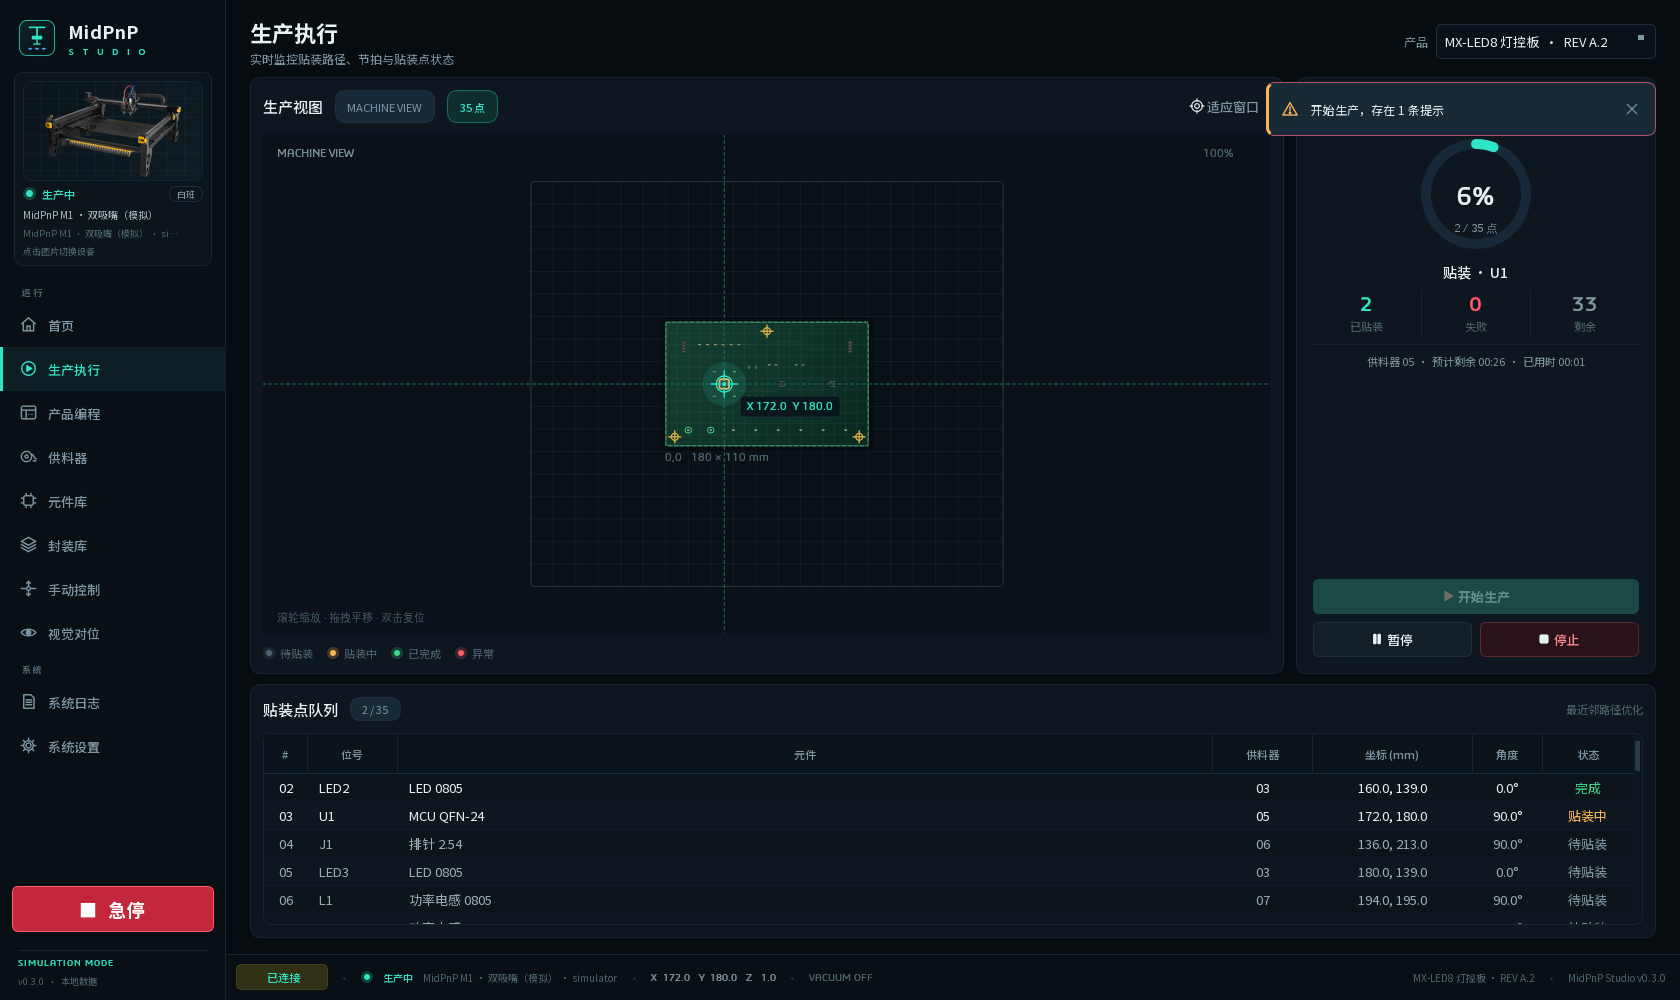
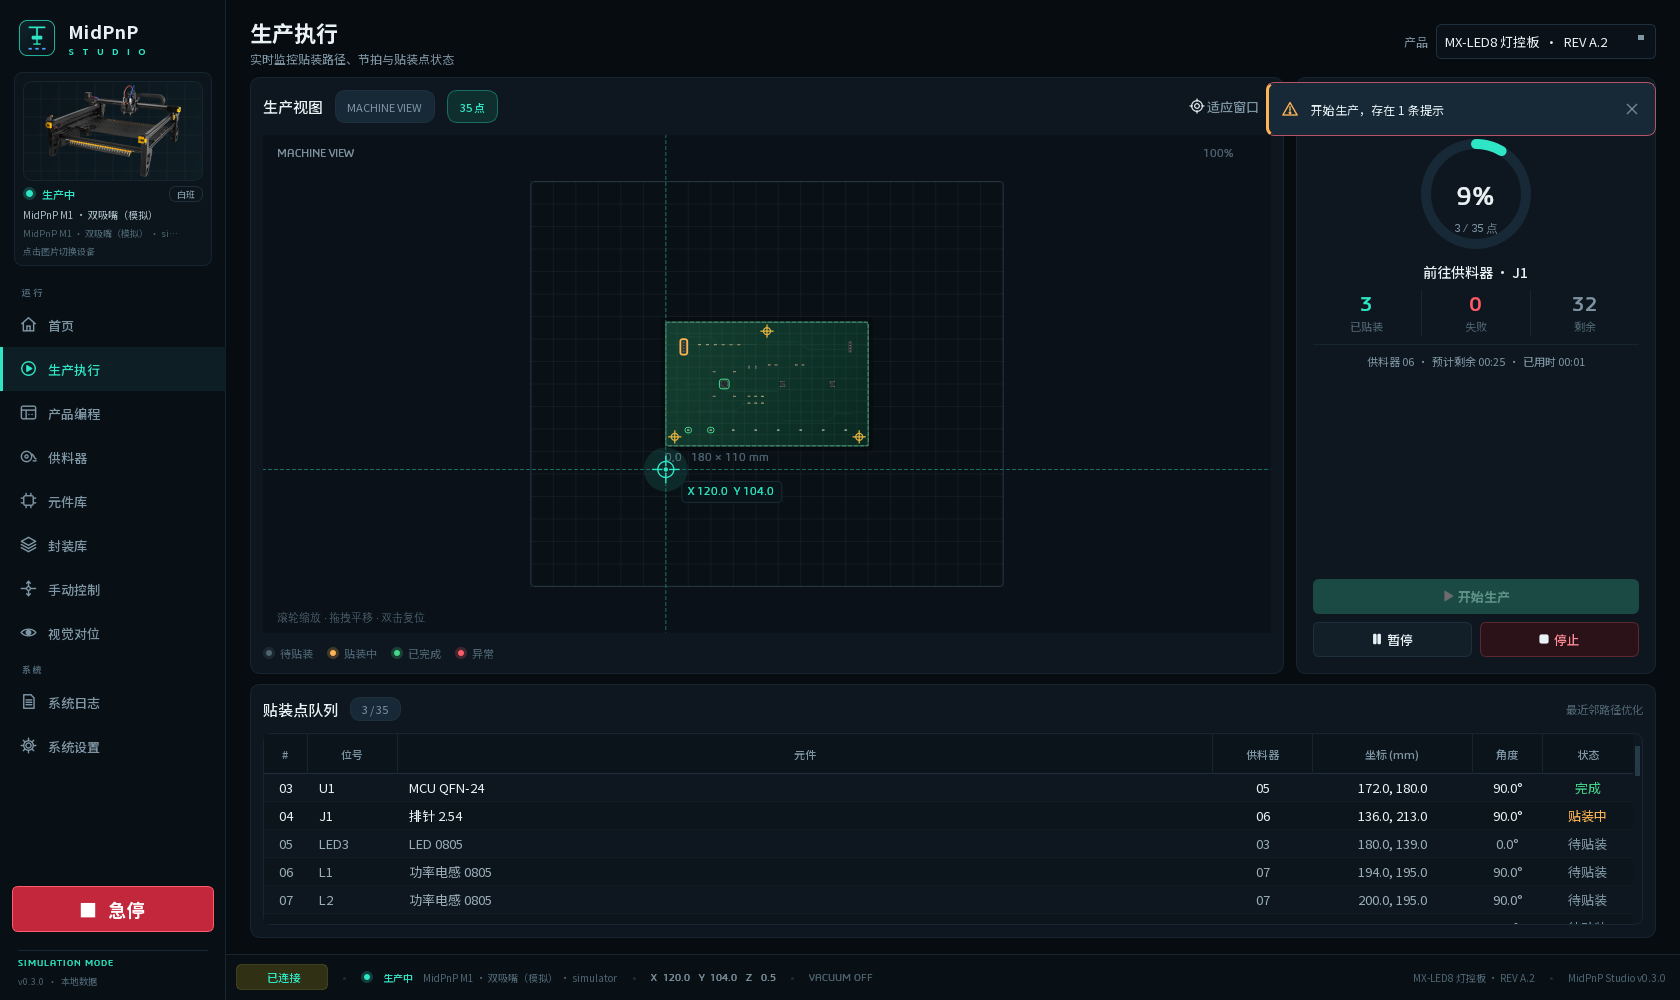
feat(ui): use the supplied bed reference as 1:1 default artwork
- add assets/beds/m1-bed.png: the supplied 1302x535 plate reference converted
  to transparent dark-theme line art (frame, hole grid, calibration PCB,
  camera, ruler all in their original positions/relations)
- set sim-desktop profile bed_image to beds/m1-bed.png so the home overview
  draws the exact reference at bed size, instead of a redrawn approximation
- bed images now fill the bed rectangle without cropping; product outline is
  shown only while producing, keeping the idle bed clean
- custom bed replacement/reset still available in machine profile settings
- docs, 115 tests, screenshots updated

diff --git a/midpnp/ui/pages/home.py b/midpnp/ui/pages/home.py
@@ -459,22 +459,13 @@ class MachineScene(QWidget):
         if image is not None:
             scaled = image.scaled(
                 bed.size().toSize(),
-                Qt.AspectRatioMode.KeepAspectRatioByExpanding,
+                Qt.AspectRatioMode.IgnoreAspectRatio,
                 Qt.TransformationMode.SmoothTransformation,
             )
-            src = QRectF(
-                (scaled.width() - bed.width()) / 2,
-                (scaled.height() - bed.height()) / 2,
-                bed.width(),
-                bed.height(),
-            )
-            painter.drawImage(bed, scaled, src)
+            painter.drawImage(bed, scaled)
         else:
             self._draw_default_bed(painter, bed)
         painter.restore()
-        painter.setPen(QPen(QColor("#2b4652"), 1.2))
-        painter.setBrush(Qt.BrushStyle.NoBrush)
-        painter.drawRoundedRect(bed, 8, 8)
 
         def to_bed(mx: float, my: float) -> QPointF:
             return QPointF(
@@ -483,7 +474,7 @@ class MachineScene(QWidget):
             )
 
         product = self._product
-        if product is not None:
+        if product is not None and self._state in (MachineState.RUNNING, MachineState.PAUSED):
             top_left = to_bed(product.board_origin_x_mm, product.board_origin_y_mm + product.board_height_mm)
             bottom_right = to_bed(
                 product.board_origin_x_mm + product.board_width_mm,

diff --git a/README.md b/README.md
@@ -12,7 +12,7 @@ MidPnP Studio 是一个从零搭建、可以直接运行的贴片机上位机原
 | --- | --- |
 | 设备连接 | 内置模拟器、TCP JSONL、串口 JSONL、G-code 命令表；自动重连、状态机、软限位 |
 | 机型配置 | JSON 配置驱动多机型；首次启动看图选设备，之后在设置里随时更换 |
-| 首页 | 16:9 单相机画面（顶/底切换、可拖动分隔条）、竖置步距/速度点动（默认相机 3/5）、吸嘴/相机选择与跟随真空、Z 单独归位、可拖动 3:7 整机线稿（可换底板图、飞达蛇形序号 1–50、料带规格、点击移动） |
+| 首页 | 16:9 单相机画面（顶/底切换、可拖动分隔条）、竖置步距/速度点动（默认相机 3/5）、吸嘴/相机选择与跟随真空、Z 单独归位、可拖动 3:7 整机线稿（默认 1:1 底板线稿、可换底板图、飞达蛇形序号 1–50、点击移动） |
 | 连接向导 | 相机 → 主机 → 归位 → 自动校准 四步状态弹窗，完成后状态栏显示已连接 |
 | 生产执行 | 产品选择、路径规划、开始 / 暂停 / 继续 / 停止、急停、实时贴装点状态、节拍与 ETA |
 | 产品编程 | 板框、原点、基准点、贴装点增删改、板卡可视化、坐标导入 / 导出 |

diff --git a/docs/USER_GUIDE.md b/docs/USER_GUIDE.md
@@ -41,7 +41,8 @@ cd "D:\MidPnP-Studio"
 - **整机总览（右侧）**：与左侧区域宽度比约 **3 : 7**，线稿俯视图占更大宽度。
   外框代表整机范围，贴装头用十字线 + 原点表示，XY 龙门线与移动都在外框内。
   底板与上下飞达区恢复上一版比例；底板上有一排排固定孔、中央斜切中缝、
-  校准板和底部相机，默认按参考图绘制：
+  校准板和底部相机，默认使用参考线稿（`assets/beds/m1-bed.png`）按 1:1
+  比例铺满：
   上下各 25 个电动飞达：
   - 绿色：飞达已装料、已启用且存在对应元件；
   - 黄色：装了飞达但没有元件，或低料、空料、已停用；

diff --git a/docs/MACHINE_PROFILE.md b/docs/MACHINE_PROFILE.md
@@ -125,7 +125,7 @@
 
 ```jsonc
 "image": "machines/m1.png",
-"bed_image": ""
+"bed_image": "beds/m1-bed.png"
 ```
 
 `image` 相对 `assets/` 目录，会显示在侧边栏设备卡、设备画廊卡片和连接弹窗里；
